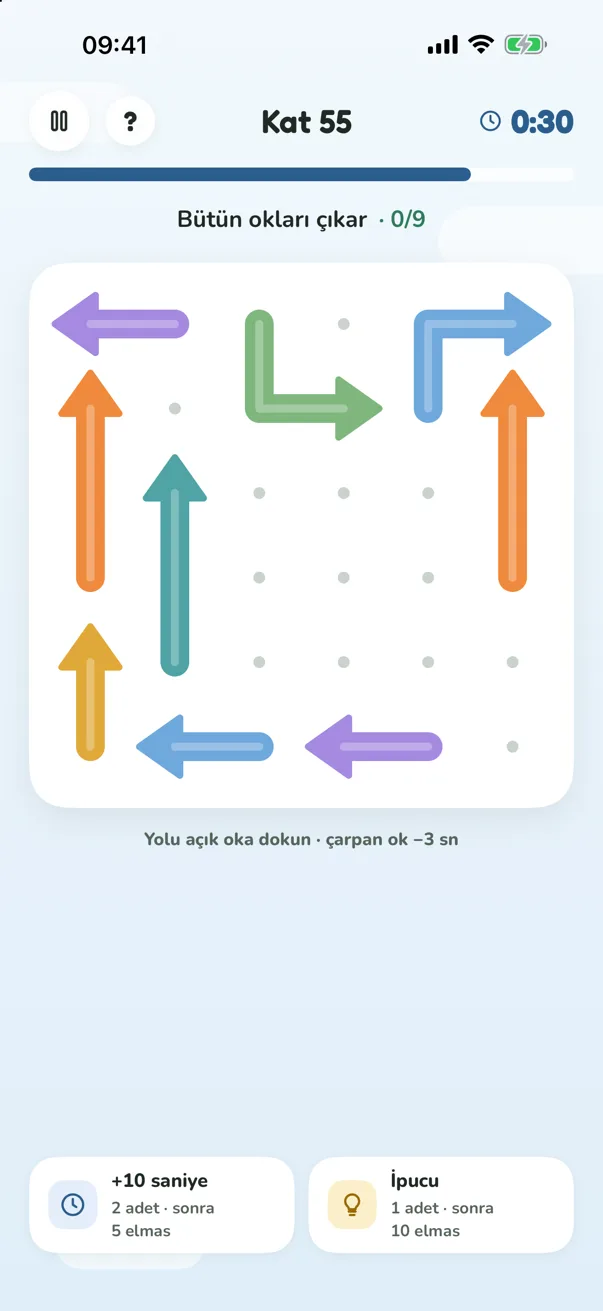
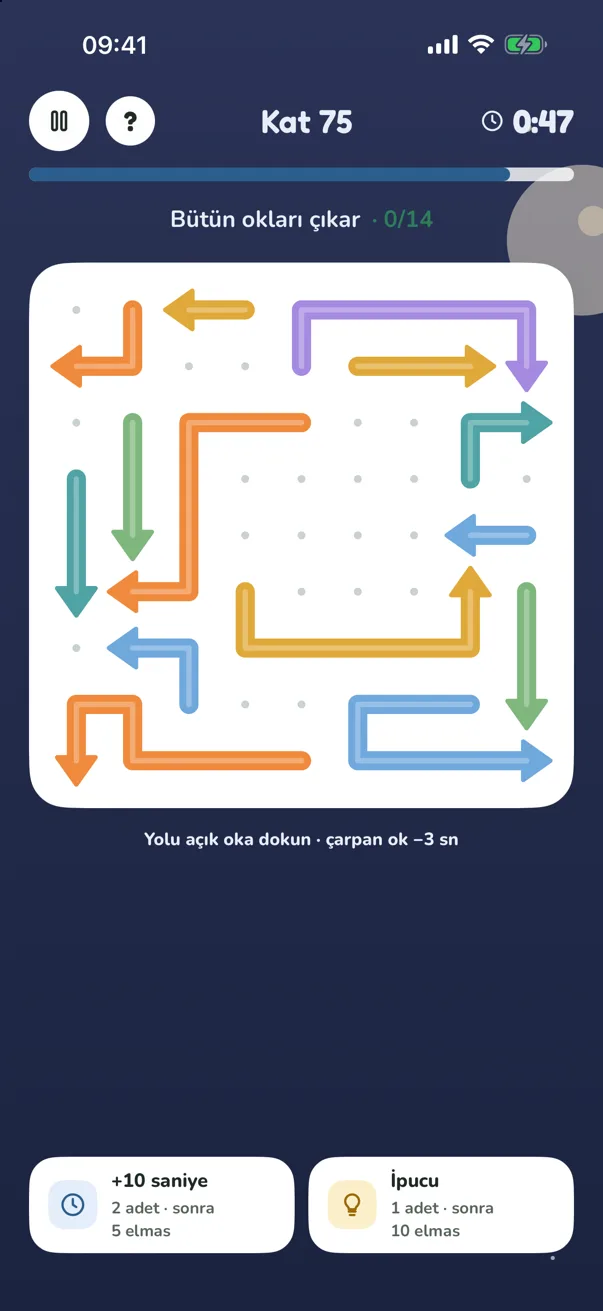
Oklar: yeni büyük tahtalar (kademe metni ve görsel)

diff --git a/index.html b/index.html
@@ -46,7 +46,7 @@
 </div></section>
 <section id="oyunlar" style="background:#fff"><div class="wrap">
   <div class="section-head"><span class="eyebrow">Oyunlar</span><h2>Dokuz bulmaca, tek kule.</h2><p>Her kat farklı bir oyunla gelir; her 10 katta bir kamp ve yeni bir oyun. İlk kez karşılaştığında süre başlamadan kısa bir animasyonla nasıl oynandığı gösterilir, oyun sırasında ? düğmesi aynı kartı açar. Her tahta üretilirken bilgisayar tarafından çözülerek doğrulanır: çözümsüz bulmaca yok.</p></div>
-  <div class="games"><article class="game" id="colorMatch"><div class="art"><svg viewBox="0 0 76 76" aria-hidden="true"><rect x="4" y="4" width="32" height="32" rx="9" fill="#7FB77E"/><circle cx="20" cy="20" r="6" fill="#fff"/><rect x="40" y="4" width="32" height="32" rx="9" fill="#7FB77E"/><circle cx="56" cy="20" r="6" fill="#fff"/><rect x="4" y="40" width="32" height="32" rx="9" fill="#6FA8DC"/><rect x="14" y="50" width="12" height="12" rx="3" fill="#fff"/><rect x="40" y="40" width="32" height="32" rx="9" fill="#F08A3C"/><path d="M56 47l8 14H48z" fill="#fff"/><path d="M31 20h14" stroke="#1F2A24" stroke-width="2.5" stroke-linecap="round" stroke-dasharray="1 5"/></svg></div><div class="body"><div class="game-head"><h3>Renk birleştirme</h3><span class="unlock">Kat 1&#x27;den</span></div><p class="goal">Aynı renkteki taşları buluştur, tahtayı temizle.</p><h4>Nasıl oynanır</h4><ol><li>Bir taşı aynı renkli komşusunun üstüne sürükle: ikisi birden kaybolur.</li><li>Boş kareye sürüklersen taş kayar; eşine yaklaştırmak için kullan.</li></ol><h4>Yükseldikçe</h4><ul><li>Kat 10&#x27;dan duvarlar ve kayma hakkı sayılı taşlar (0&#x27;da donar)</li><li>Kat 30&#x27;dan her taşın kayma hakkı var, 6 renge kadar</li><li>Kat 60&#x27;tan kilitli taşlar: yanında eşleşme olunca açılır</li></ul></div></article><article class="game" id="pathDraw"><div class="art"><svg viewBox="0 0 76 76" aria-hidden="true"><g fill="#C9D2CC"><circle cx="14" cy="14" r="4"/><circle cx="38" cy="14" r="4"/><circle cx="62" cy="38" r="4"/><circle cx="14" cy="38" r="4"/><circle cx="38" cy="62" r="4"/><circle cx="62" cy="62" r="4"/></g><path d="M14 62V38h24V14h24" stroke="#2B5E8E" stroke-width="7" fill="none" stroke-linecap="round" stroke-linejoin="round"/><circle cx="14" cy="62" r="8" fill="#2E7D5B"/><circle cx="14" cy="62" r="3" fill="#fff"/><circle cx="38" cy="38" r="6" fill="#E0A93A"/><circle cx="62" cy="14" r="10" fill="#DCEBD6"/><path d="M58 20V8h7l-1.5 3 1.5 3h-7" stroke="#2E7D5B" stroke-width="2" fill="none" stroke-linejoin="round"/></svg></div><div class="body"><div class="game-head"><h3>Yol çizme</h3><span class="unlock">Kat 1&#x27;den</span></div><p class="goal">Parmağını kaldırmadan tek çizgiyle bayrağa ulaş.</p><h4>Nasıl oynanır</h4><ol><li>Başlangıçtan düğümden düğüme çiz; geri çekersen son adım silinir.</li><li>Ara noktalardan geçip bayrakta bitir. Parmağını kaldırırsan yol sıfırlanır.</li></ol><h4>Yükseldikçe</h4><ul><li>Kat 20&#x27;den sis: yalnızca kalemin çevresi görünür</li><li>Kat 30&#x27;dan ara noktalar sırayla geçilir</li><li>Kat 60&#x27;tan bütün düğümlerden geçmen gerekir, duvarlar çoğalır</li></ul></div></article><article class="game" id="blockFit"><div class="art"><svg viewBox="0 0 76 76" aria-hidden="true"><g fill="#CFE4C4"><rect x="4" y="4" width="20" height="20" rx="5"/><rect x="28" y="4" width="20" height="20" rx="5"/><rect x="52" y="52" width="20" height="20" rx="5"/></g><g fill="#A58AE0"><rect x="52" y="4" width="20" height="20" rx="5"/><rect x="52" y="28" width="20" height="20" rx="5"/></g><g fill="#F08A3C"><rect x="4" y="28" width="20" height="20" rx="5"/><rect x="28" y="28" width="20" height="20" rx="5"/><rect x="4" y="52" width="20" height="20" rx="5"/></g><rect x="28" y="52" width="20" height="20" rx="5" fill="none" stroke="#C9D2CC" stroke-width="2.5" stroke-dasharray="4 3"/></svg></div><div class="body"><div class="game-head"><h3>Blok yerleştirme</h3><span class="unlock">Kat 1&#x27;den</span></div><p class="goal">Parçaları tahtadaki boşluklara tam oturt.</p><h4>Nasıl oynanır</h4><ol><li>Alttaki parçayı tahtaya sürükle; parçaya dokununca döner.</li><li>Tahtadaki parçaya dokunursan geri gelir; bütün parçalar sığınca kat biter.</li></ol><h4>Yükseldikçe</h4><ul><li>6×6 tahtadan 8×8&#x27;e, 3 parçadan 6 parçaya</li><li>Kat 30&#x27;dan aynalı parça: basılı tutup çevirmen gerekir</li><li>Parçalar büyür, boşluklar daralır</li></ul></div></article><article class="game" id="memory"><div class="art"><svg viewBox="0 0 76 76" aria-hidden="true"><rect x="4" y="8" width="30" height="40" rx="8" fill="#2B5E8E"/><circle cx="19" cy="28" r="6" fill="none" stroke="#fff" stroke-opacity=".6" stroke-width="2.5"/><rect x="40" y="8" width="30" height="40" rx="8" fill="#fff" stroke="#1F2A24" stroke-width="2.5"/><path d="M63 21C53 21 47 27 47 37c10 0 16-6 16-16z" fill="#7FB77E"/><rect x="22" y="34" width="30" height="40" rx="8" fill="#DCEBD6" stroke="#2E7D5B" stroke-width="2.5"/><path d="M45 47C35 47 29 53 29 63c10 0 16-6 16-16z" fill="#7FB77E"/></svg></div><div class="body"><div class="game-head"><h3>Hafıza</h3><span class="unlock">Kat 1&#x27;den</span></div><p class="goal">Kartları çevir, eşleri bul.</p><h4>Nasıl oynanır</h4><ol><li>İki kart çevir: aynı resimse açık kalır, değilse kısa süre sonra kapanır.</li><li>Kartların yerini aklında tut ve bütün çiftleri bul.</li></ol><h4>Yükseldikçe</h4><ul><li>12 karttan 24 karta</li><li>Kat 30&#x27;dan üçlüler: aynı resimden üç kartı bul</li><li>Yanlış kartlar daha çabuk kapanır</li></ul></div></article><article class="game" id="flow"><div class="art"><svg viewBox="0 0 76 76" aria-hidden="true"><path d="M12 12h26v26h26" stroke="#E0565B" stroke-width="8" fill="none" stroke-linecap="round" stroke-linejoin="round"/><path d="M12 38v26h52" stroke="#6FA8DC" stroke-width="8" fill="none" stroke-linecap="round" stroke-linejoin="round"/><circle cx="12" cy="12" r="9" fill="#E0565B"/><circle cx="64" cy="38" r="9" fill="#E0565B"/><circle cx="12" cy="38" r="9" fill="#6FA8DC"/><circle cx="64" cy="64" r="9" fill="#6FA8DC"/></svg></div><div class="body"><div class="game-head"><h3>Akış</h3><span class="unlock">Kat 11&#x27;den</span></div><p class="goal">Aynı renkteki uçları birleştir, tahtayı doldur.</p><h4>Nasıl oynanır</h4><ol><li>Renkli bir noktadan aynı renkteki eşine çizgi çek.</li><li>Çizgiler kesişmez ve bütün kareler dolmalı; yarım kalan çizgi parmak kalkınca silinir.</li></ol><h4>Yükseldikçe</h4><ul><li>5×5 tahtadan 7×7&#x27;ye</li><li>3 renkten 6 renge</li><li>Geçilemeyen engel kareler</li></ul></div></article><article class="game" id="pipes"><div class="art"><svg viewBox="0 0 76 76" aria-hidden="true"><rect x="2" y="2" width="72" height="72" rx="14" fill="#E3EEF9"/><path d="M8 38h22a8 8 0 0 0 8-8V8" stroke="#6FA8DC" stroke-width="9" fill="none" stroke-linecap="round"/><path d="M38 68V50a8 8 0 0 1 8-8h22" stroke="#C9D2CC" stroke-width="9" fill="none" stroke-linecap="round"/><circle cx="8" cy="38" r="7" fill="#2B5E8E"/><circle cx="68" cy="42" r="7" fill="#2E7D5B"/></svg></div><div class="body"><div class="game-head"><h3>Boru çevirme</h3><span class="unlock">Kat 21&#x27;den</span></div><p class="goal">Boruları döndür, suyu akıt.</p><h4>Nasıl oynanır</h4><ol><li>Bir boruya dokun: 90 derece döner.</li><li>Suyu kaynaktan bayrağa kesintisiz ulaştır; akan borular dolu görünür.</li></ol><h4>Yükseldikçe</h4><ul><li>Kat 40&#x27;tan bütün borular bağlanmalı</li><li>Daha çok kollu, daha karışık borular</li><li>Kristal zirvede 6×6 tahta</li></ul></div></article><article class="game" id="colorSort"><div class="art"><svg viewBox="0 0 76 76" aria-hidden="true"><g stroke="#8A958E" stroke-width="2.5" fill="none"><path d="M8 6v56a8 8 0 0 0 16 0V6"/><path d="M30 6v56a8 8 0 0 0 16 0V6"/><path d="M52 6v56a8 8 0 0 0 16 0V6"/></g><path d="M10 42h12v20a6 6 0 0 1-12 0z" fill="#F08A3C"/><rect x="10" y="26" width="12" height="16" fill="#A58AE0"/><path d="M32 30h12v32a6 6 0 0 1-12 0z" fill="#A58AE0"/><path d="M54 46h12v16a6 6 0 0 1-12 0z" fill="#F08A3C"/></svg></div><div class="body"><div class="game-head"><h3>Renk dizme</h3><span class="unlock">Kat 31&#x27;den</span></div><p class="goal">Tüplerdeki renkleri ayır, her tüpte tek renk kalsın.</p><h4>Nasıl oynanır</h4><ol><li>Bir tüpe, sonra başka bir tüpe dokun: üstteki renk oraya dökülür.</li><li>Yalnızca aynı rengin üstüne ya da boş tüpe dökülür; sıkışırsan Geri al.</li></ol><h4>Yükseldikçe</h4><ul><li>4 renkten 8 renge</li><li>Daha karışık başlangıçlar, daha uzun çözümler</li><li>Hep iki boş tüp: plan yapmak sende</li></ul></div></article><article class="game" id="lights"><div class="art"><svg viewBox="0 0 76 76" aria-hidden="true"><g fill="#F2B531"><rect x="2" y="2" width="22" height="22" rx="6"/><rect x="27" y="2" width="22" height="22" rx="6"/><rect x="52" y="27" width="22" height="22" rx="6"/><rect x="2" y="27" width="22" height="22" rx="6"/><rect x="27" y="52" width="22" height="22" rx="6"/></g><g fill="#F4F6F1" stroke="#E3E9E0" stroke-width="2"><rect x="52" y="2" width="22" height="22" rx="6"/><rect x="27" y="27" width="22" height="22" rx="6"/><rect x="2" y="52" width="22" height="22" rx="6"/><rect x="52" y="52" width="22" height="22" rx="6"/></g><g fill="#5A3E00"><circle cx="13" cy="13" r="4"/><circle cx="38" cy="13" r="4"/><circle cx="63" cy="38" r="4"/><circle cx="13" cy="38" r="4"/><circle cx="38" cy="63" r="4"/></g></svg></div><div class="body"><div class="game-head"><h3>Işık</h3><span class="unlock">Kat 41&#x27;den</span></div><p class="goal">Bütün kareleri yak.</p><h4>Nasıl oynanır</h4><ol><li>Bir kareye dokun: o kare ve üst, alt, sağ, sol komşuları (+ şekli) tersine döner. Sönük olan yanar, yanan söner.</li><li>Parmağını basılı tutunca dönecek kareler çerçevelenir; çaprazlar etkilenmez.</li></ol><h4>Yükseldikçe</h4><ul><li>3×3 tahtadan 5×5&#x27;e</li><li>Çözüm için gereken dokunuş 3&#x27;ten 10&#x27;a</li><li>Sıra önemli: önce düşün, sonra dokun</li></ul></div></article><article class="game" id="arrows"><div class="art"><svg viewBox="0 0 76 76" aria-hidden="true"><g fill="none" stroke-width="7" stroke-linecap="round" stroke-linejoin="round"><path d="M14 60V36h22" stroke="#F08A3C"/><path d="M50 62V22" stroke="#6FA8DC"/><path d="M20 16h30" stroke="#A58AE0"/></g><path d="M36 28l10 8-10 8z" fill="#F08A3C"/><path d="M42 24l8-12 8 12z" fill="#6FA8DC"/><path d="M50 8l12 8-12 8z" fill="#A58AE0"/></svg></div><div class="body"><div class="game-head"><h3>Oklar</h3><span class="unlock">Kat 51&#x27;den</span></div><p class="goal">Okları sırasıyla tahtadan çıkar.</p><h4>Nasıl oynanır</h4><ol><li>Bir oka dokun: ucunun gösterdiği yöne kayar, gövdesi ucunu izler ve yolu açıksa tahtadan çıkar.</li><li>Önünde başka ok varsa çarpıp geri döner ve 3 saniye götürür; önce öndekileri çıkar.</li></ol><h4>Yükseldikçe</h4><ul><li>6×6 tahtadan 9×9&#x27;a, 7 oktan 19 oka</li><li>Düz oklardan kıvrımlı, yılan gibi oklara</li><li>Daha uzun &quot;önce bu çıkmalı&quot; zincirleri</li></ul></div></article></div>
+  <div class="games"><article class="game" id="colorMatch"><div class="art"><svg viewBox="0 0 76 76" aria-hidden="true"><rect x="4" y="4" width="32" height="32" rx="9" fill="#7FB77E"/><circle cx="20" cy="20" r="6" fill="#fff"/><rect x="40" y="4" width="32" height="32" rx="9" fill="#7FB77E"/><circle cx="56" cy="20" r="6" fill="#fff"/><rect x="4" y="40" width="32" height="32" rx="9" fill="#6FA8DC"/><rect x="14" y="50" width="12" height="12" rx="3" fill="#fff"/><rect x="40" y="40" width="32" height="32" rx="9" fill="#F08A3C"/><path d="M56 47l8 14H48z" fill="#fff"/><path d="M31 20h14" stroke="#1F2A24" stroke-width="2.5" stroke-linecap="round" stroke-dasharray="1 5"/></svg></div><div class="body"><div class="game-head"><h3>Renk birleştirme</h3><span class="unlock">Kat 1&#x27;den</span></div><p class="goal">Aynı renkteki taşları buluştur, tahtayı temizle.</p><h4>Nasıl oynanır</h4><ol><li>Bir taşı aynı renkli komşusunun üstüne sürükle: ikisi birden kaybolur.</li><li>Boş kareye sürüklersen taş kayar; eşine yaklaştırmak için kullan.</li></ol><h4>Yükseldikçe</h4><ul><li>Kat 10&#x27;dan duvarlar ve kayma hakkı sayılı taşlar (0&#x27;da donar)</li><li>Kat 30&#x27;dan her taşın kayma hakkı var, 6 renge kadar</li><li>Kat 60&#x27;tan kilitli taşlar: yanında eşleşme olunca açılır</li></ul></div></article><article class="game" id="pathDraw"><div class="art"><svg viewBox="0 0 76 76" aria-hidden="true"><g fill="#C9D2CC"><circle cx="14" cy="14" r="4"/><circle cx="38" cy="14" r="4"/><circle cx="62" cy="38" r="4"/><circle cx="14" cy="38" r="4"/><circle cx="38" cy="62" r="4"/><circle cx="62" cy="62" r="4"/></g><path d="M14 62V38h24V14h24" stroke="#2B5E8E" stroke-width="7" fill="none" stroke-linecap="round" stroke-linejoin="round"/><circle cx="14" cy="62" r="8" fill="#2E7D5B"/><circle cx="14" cy="62" r="3" fill="#fff"/><circle cx="38" cy="38" r="6" fill="#E0A93A"/><circle cx="62" cy="14" r="10" fill="#DCEBD6"/><path d="M58 20V8h7l-1.5 3 1.5 3h-7" stroke="#2E7D5B" stroke-width="2" fill="none" stroke-linejoin="round"/></svg></div><div class="body"><div class="game-head"><h3>Yol çizme</h3><span class="unlock">Kat 1&#x27;den</span></div><p class="goal">Parmağını kaldırmadan tek çizgiyle bayrağa ulaş.</p><h4>Nasıl oynanır</h4><ol><li>Başlangıçtan düğümden düğüme çiz; geri çekersen son adım silinir.</li><li>Ara noktalardan geçip bayrakta bitir. Parmağını kaldırırsan yol sıfırlanır.</li></ol><h4>Yükseldikçe</h4><ul><li>Kat 20&#x27;den sis: yalnızca kalemin çevresi görünür</li><li>Kat 30&#x27;dan ara noktalar sırayla geçilir</li><li>Kat 60&#x27;tan bütün düğümlerden geçmen gerekir, duvarlar çoğalır</li></ul></div></article><article class="game" id="blockFit"><div class="art"><svg viewBox="0 0 76 76" aria-hidden="true"><g fill="#CFE4C4"><rect x="4" y="4" width="20" height="20" rx="5"/><rect x="28" y="4" width="20" height="20" rx="5"/><rect x="52" y="52" width="20" height="20" rx="5"/></g><g fill="#A58AE0"><rect x="52" y="4" width="20" height="20" rx="5"/><rect x="52" y="28" width="20" height="20" rx="5"/></g><g fill="#F08A3C"><rect x="4" y="28" width="20" height="20" rx="5"/><rect x="28" y="28" width="20" height="20" rx="5"/><rect x="4" y="52" width="20" height="20" rx="5"/></g><rect x="28" y="52" width="20" height="20" rx="5" fill="none" stroke="#C9D2CC" stroke-width="2.5" stroke-dasharray="4 3"/></svg></div><div class="body"><div class="game-head"><h3>Blok yerleştirme</h3><span class="unlock">Kat 1&#x27;den</span></div><p class="goal">Parçaları tahtadaki boşluklara tam oturt.</p><h4>Nasıl oynanır</h4><ol><li>Alttaki parçayı tahtaya sürükle; parçaya dokununca döner.</li><li>Tahtadaki parçaya dokunursan geri gelir; bütün parçalar sığınca kat biter.</li></ol><h4>Yükseldikçe</h4><ul><li>6×6 tahtadan 8×8&#x27;e, 3 parçadan 6 parçaya</li><li>Kat 30&#x27;dan aynalı parça: basılı tutup çevirmen gerekir</li><li>Parçalar büyür, boşluklar daralır</li></ul></div></article><article class="game" id="memory"><div class="art"><svg viewBox="0 0 76 76" aria-hidden="true"><rect x="4" y="8" width="30" height="40" rx="8" fill="#2B5E8E"/><circle cx="19" cy="28" r="6" fill="none" stroke="#fff" stroke-opacity=".6" stroke-width="2.5"/><rect x="40" y="8" width="30" height="40" rx="8" fill="#fff" stroke="#1F2A24" stroke-width="2.5"/><path d="M63 21C53 21 47 27 47 37c10 0 16-6 16-16z" fill="#7FB77E"/><rect x="22" y="34" width="30" height="40" rx="8" fill="#DCEBD6" stroke="#2E7D5B" stroke-width="2.5"/><path d="M45 47C35 47 29 53 29 63c10 0 16-6 16-16z" fill="#7FB77E"/></svg></div><div class="body"><div class="game-head"><h3>Hafıza</h3><span class="unlock">Kat 1&#x27;den</span></div><p class="goal">Kartları çevir, eşleri bul.</p><h4>Nasıl oynanır</h4><ol><li>İki kart çevir: aynı resimse açık kalır, değilse kısa süre sonra kapanır.</li><li>Kartların yerini aklında tut ve bütün çiftleri bul.</li></ol><h4>Yükseldikçe</h4><ul><li>12 karttan 24 karta</li><li>Kat 30&#x27;dan üçlüler: aynı resimden üç kartı bul</li><li>Yanlış kartlar daha çabuk kapanır</li></ul></div></article><article class="game" id="flow"><div class="art"><svg viewBox="0 0 76 76" aria-hidden="true"><path d="M12 12h26v26h26" stroke="#E0565B" stroke-width="8" fill="none" stroke-linecap="round" stroke-linejoin="round"/><path d="M12 38v26h52" stroke="#6FA8DC" stroke-width="8" fill="none" stroke-linecap="round" stroke-linejoin="round"/><circle cx="12" cy="12" r="9" fill="#E0565B"/><circle cx="64" cy="38" r="9" fill="#E0565B"/><circle cx="12" cy="38" r="9" fill="#6FA8DC"/><circle cx="64" cy="64" r="9" fill="#6FA8DC"/></svg></div><div class="body"><div class="game-head"><h3>Akış</h3><span class="unlock">Kat 11&#x27;den</span></div><p class="goal">Aynı renkteki uçları birleştir, tahtayı doldur.</p><h4>Nasıl oynanır</h4><ol><li>Renkli bir noktadan aynı renkteki eşine çizgi çek.</li><li>Çizgiler kesişmez ve bütün kareler dolmalı; yarım kalan çizgi parmak kalkınca silinir.</li></ol><h4>Yükseldikçe</h4><ul><li>5×5 tahtadan 7×7&#x27;ye</li><li>3 renkten 6 renge</li><li>Geçilemeyen engel kareler</li></ul></div></article><article class="game" id="pipes"><div class="art"><svg viewBox="0 0 76 76" aria-hidden="true"><rect x="2" y="2" width="72" height="72" rx="14" fill="#E3EEF9"/><path d="M8 38h22a8 8 0 0 0 8-8V8" stroke="#6FA8DC" stroke-width="9" fill="none" stroke-linecap="round"/><path d="M38 68V50a8 8 0 0 1 8-8h22" stroke="#C9D2CC" stroke-width="9" fill="none" stroke-linecap="round"/><circle cx="8" cy="38" r="7" fill="#2B5E8E"/><circle cx="68" cy="42" r="7" fill="#2E7D5B"/></svg></div><div class="body"><div class="game-head"><h3>Boru çevirme</h3><span class="unlock">Kat 21&#x27;den</span></div><p class="goal">Boruları döndür, suyu akıt.</p><h4>Nasıl oynanır</h4><ol><li>Bir boruya dokun: 90 derece döner.</li><li>Suyu kaynaktan bayrağa kesintisiz ulaştır; akan borular dolu görünür.</li></ol><h4>Yükseldikçe</h4><ul><li>Kat 40&#x27;tan bütün borular bağlanmalı</li><li>Daha çok kollu, daha karışık borular</li><li>Kristal zirvede 6×6 tahta</li></ul></div></article><article class="game" id="colorSort"><div class="art"><svg viewBox="0 0 76 76" aria-hidden="true"><g stroke="#8A958E" stroke-width="2.5" fill="none"><path d="M8 6v56a8 8 0 0 0 16 0V6"/><path d="M30 6v56a8 8 0 0 0 16 0V6"/><path d="M52 6v56a8 8 0 0 0 16 0V6"/></g><path d="M10 42h12v20a6 6 0 0 1-12 0z" fill="#F08A3C"/><rect x="10" y="26" width="12" height="16" fill="#A58AE0"/><path d="M32 30h12v32a6 6 0 0 1-12 0z" fill="#A58AE0"/><path d="M54 46h12v16a6 6 0 0 1-12 0z" fill="#F08A3C"/></svg></div><div class="body"><div class="game-head"><h3>Renk dizme</h3><span class="unlock">Kat 31&#x27;den</span></div><p class="goal">Tüplerdeki renkleri ayır, her tüpte tek renk kalsın.</p><h4>Nasıl oynanır</h4><ol><li>Bir tüpe, sonra başka bir tüpe dokun: üstteki renk oraya dökülür.</li><li>Yalnızca aynı rengin üstüne ya da boş tüpe dökülür; sıkışırsan Geri al.</li></ol><h4>Yükseldikçe</h4><ul><li>4 renkten 8 renge</li><li>Daha karışık başlangıçlar, daha uzun çözümler</li><li>Hep iki boş tüp: plan yapmak sende</li></ul></div></article><article class="game" id="lights"><div class="art"><svg viewBox="0 0 76 76" aria-hidden="true"><g fill="#F2B531"><rect x="2" y="2" width="22" height="22" rx="6"/><rect x="27" y="2" width="22" height="22" rx="6"/><rect x="52" y="27" width="22" height="22" rx="6"/><rect x="2" y="27" width="22" height="22" rx="6"/><rect x="27" y="52" width="22" height="22" rx="6"/></g><g fill="#F4F6F1" stroke="#E3E9E0" stroke-width="2"><rect x="52" y="2" width="22" height="22" rx="6"/><rect x="27" y="27" width="22" height="22" rx="6"/><rect x="2" y="52" width="22" height="22" rx="6"/><rect x="52" y="52" width="22" height="22" rx="6"/></g><g fill="#5A3E00"><circle cx="13" cy="13" r="4"/><circle cx="38" cy="13" r="4"/><circle cx="63" cy="38" r="4"/><circle cx="13" cy="38" r="4"/><circle cx="38" cy="63" r="4"/></g></svg></div><div class="body"><div class="game-head"><h3>Işık</h3><span class="unlock">Kat 41&#x27;den</span></div><p class="goal">Bütün kareleri yak.</p><h4>Nasıl oynanır</h4><ol><li>Bir kareye dokun: o kare ve üst, alt, sağ, sol komşuları (+ şekli) tersine döner. Sönük olan yanar, yanan söner.</li><li>Parmağını basılı tutunca dönecek kareler çerçevelenir; çaprazlar etkilenmez.</li></ol><h4>Yükseldikçe</h4><ul><li>3×3 tahtadan 5×5&#x27;e</li><li>Çözüm için gereken dokunuş 3&#x27;ten 10&#x27;a</li><li>Sıra önemli: önce düşün, sonra dokun</li></ul></div></article><article class="game" id="arrows"><div class="art"><svg viewBox="0 0 76 76" aria-hidden="true"><g fill="none" stroke-width="7" stroke-linecap="round" stroke-linejoin="round"><path d="M14 60V36h22" stroke="#F08A3C"/><path d="M50 62V22" stroke="#6FA8DC"/><path d="M20 16h30" stroke="#A58AE0"/></g><path d="M36 28l10 8-10 8z" fill="#F08A3C"/><path d="M42 24l8-12 8 12z" fill="#6FA8DC"/><path d="M50 8l12 8-12 8z" fill="#A58AE0"/></svg></div><div class="body"><div class="game-head"><h3>Oklar</h3><span class="unlock">Kat 51&#x27;den</span></div><p class="goal">Okları sırasıyla tahtadan çıkar.</p><h4>Nasıl oynanır</h4><ol><li>Bir oka dokun: ucunun gösterdiği yöne kayar, gövdesi ucunu izler ve yolu açıksa tahtadan çıkar.</li><li>Önünde başka ok varsa çarpıp geri döner ve 3 saniye götürür; önce öndekileri çıkar.</li></ol><h4>Yükseldikçe</h4><ul><li>7×7 tahtadan 11×11&#x27;e, karelerin %85&#x27;ine kadar dolu</li><li>Kısa oklarla 12 kareye varan kıvrımlı yılan oklar</li><li>Daha uzun &quot;önce bu çıkmalı&quot; zincirleri</li></ul></div></article></div>
   <div class="shots"><figure><div class="phone sm"><img src="assets/shots/play-path.webp" width="603" height="1311" loading="lazy" alt="Yol çizme"></div><figcaption>Yol çizme</figcaption></figure><figure><div class="phone sm"><img src="assets/shots/play-color.webp" width="603" height="1311" loading="lazy" alt="Renk birleştirme"></div><figcaption>Renk birleştirme</figcaption></figure><figure><div class="phone sm"><img src="assets/shots/play-blocks.webp" width="603" height="1311" loading="lazy" alt="Blok yerleştirme"></div><figcaption>Blok yerleştirme</figcaption></figure><figure><div class="phone sm"><img src="assets/shots/play-arrows.webp" width="603" height="1311" loading="lazy" alt="Oklar"></div><figcaption>Oklar</figcaption></figure></div>
 </div></section>
 <section id="dunyalar"><div class="wrap">

diff --git a/en/index.html b/en/index.html
@@ -46,7 +46,7 @@
 </div></section>
 <section id="games" style="background:#fff"><div class="wrap">
   <div class="section-head"><span class="eyebrow">Games</span><h2>Nine puzzles, one tower.</h2><p>Each floor brings a different game; every 10 floors there is a camp and a new game. The first time you meet one, a short animation shows how it works before the clock starts, and the ? button brings it back during play. Every board is solved by the computer before you see it: no unsolvable puzzles.</p></div>
-  <div class="games"><article class="game" id="colorMatch"><div class="art"><svg viewBox="0 0 76 76" aria-hidden="true"><rect x="4" y="4" width="32" height="32" rx="9" fill="#7FB77E"/><circle cx="20" cy="20" r="6" fill="#fff"/><rect x="40" y="4" width="32" height="32" rx="9" fill="#7FB77E"/><circle cx="56" cy="20" r="6" fill="#fff"/><rect x="4" y="40" width="32" height="32" rx="9" fill="#6FA8DC"/><rect x="14" y="50" width="12" height="12" rx="3" fill="#fff"/><rect x="40" y="40" width="32" height="32" rx="9" fill="#F08A3C"/><path d="M56 47l8 14H48z" fill="#fff"/><path d="M31 20h14" stroke="#1F2A24" stroke-width="2.5" stroke-linecap="round" stroke-dasharray="1 5"/></svg></div><div class="body"><div class="game-head"><h3>Colour match</h3><span class="unlock">From floor 1</span></div><p class="goal">Bring matching tiles together and clear the board.</p><h4>How to play</h4><ol><li>Drag a tile onto a neighbour of the same colour: both disappear.</li><li>Drag into an empty square to slide a tile closer to its pair.</li></ol><h4>Higher up</h4><ul><li>From floor 10: walls and tiles with a limited number of slides (frozen at 0)</li><li>From floor 30: every tile has a slide limit, up to 6 colours</li><li>From floor 60: locked tiles that open when a match happens next to them</li></ul></div></article><article class="game" id="pathDraw"><div class="art"><svg viewBox="0 0 76 76" aria-hidden="true"><g fill="#C9D2CC"><circle cx="14" cy="14" r="4"/><circle cx="38" cy="14" r="4"/><circle cx="62" cy="38" r="4"/><circle cx="14" cy="38" r="4"/><circle cx="38" cy="62" r="4"/><circle cx="62" cy="62" r="4"/></g><path d="M14 62V38h24V14h24" stroke="#2B5E8E" stroke-width="7" fill="none" stroke-linecap="round" stroke-linejoin="round"/><circle cx="14" cy="62" r="8" fill="#2E7D5B"/><circle cx="14" cy="62" r="3" fill="#fff"/><circle cx="38" cy="38" r="6" fill="#E0A93A"/><circle cx="62" cy="14" r="10" fill="#DCEBD6"/><path d="M58 20V8h7l-1.5 3 1.5 3h-7" stroke="#2E7D5B" stroke-width="2" fill="none" stroke-linejoin="round"/></svg></div><div class="body"><div class="game-head"><h3>Path draw</h3><span class="unlock">From floor 1</span></div><p class="goal">Reach the flag with one line, without lifting your finger.</p><h4>How to play</h4><ol><li>Draw from node to node; pull back to undo the last step.</li><li>Pass the checkpoints and end on the flag. Lift your finger and the line resets.</li></ol><h4>Higher up</h4><ul><li>From floor 20: fog, you only see around your pen</li><li>From floor 30: checkpoints in order</li><li>From floor 60: visit every node, more walls</li></ul></div></article><article class="game" id="blockFit"><div class="art"><svg viewBox="0 0 76 76" aria-hidden="true"><g fill="#CFE4C4"><rect x="4" y="4" width="20" height="20" rx="5"/><rect x="28" y="4" width="20" height="20" rx="5"/><rect x="52" y="52" width="20" height="20" rx="5"/></g><g fill="#A58AE0"><rect x="52" y="4" width="20" height="20" rx="5"/><rect x="52" y="28" width="20" height="20" rx="5"/></g><g fill="#F08A3C"><rect x="4" y="28" width="20" height="20" rx="5"/><rect x="28" y="28" width="20" height="20" rx="5"/><rect x="4" y="52" width="20" height="20" rx="5"/></g><rect x="28" y="52" width="20" height="20" rx="5" fill="none" stroke="#C9D2CC" stroke-width="2.5" stroke-dasharray="4 3"/></svg></div><div class="body"><div class="game-head"><h3>Block fit</h3><span class="unlock">From floor 1</span></div><p class="goal">Fit every piece into the gaps on the board.</p><h4>How to play</h4><ol><li>Drag a piece from the tray onto the board; tap a piece to turn it.</li><li>Tap a placed piece to take it back; the floor is done when everything fits.</li></ol><h4>Higher up</h4><ul><li>From a 6×6 board to 8×8, from 3 pieces to 6</li><li>From floor 30: mirrored pieces you flip with a long press</li><li>Bigger pieces, tighter gaps</li></ul></div></article><article class="game" id="memory"><div class="art"><svg viewBox="0 0 76 76" aria-hidden="true"><rect x="4" y="8" width="30" height="40" rx="8" fill="#2B5E8E"/><circle cx="19" cy="28" r="6" fill="none" stroke="#fff" stroke-opacity=".6" stroke-width="2.5"/><rect x="40" y="8" width="30" height="40" rx="8" fill="#fff" stroke="#1F2A24" stroke-width="2.5"/><path d="M63 21C53 21 47 27 47 37c10 0 16-6 16-16z" fill="#7FB77E"/><rect x="22" y="34" width="30" height="40" rx="8" fill="#DCEBD6" stroke="#2E7D5B" stroke-width="2.5"/><path d="M45 47C35 47 29 53 29 63c10 0 16-6 16-16z" fill="#7FB77E"/></svg></div><div class="body"><div class="game-head"><h3>Memory</h3><span class="unlock">From floor 1</span></div><p class="goal">Flip the cards and find the matches.</p><h4>How to play</h4><ol><li>Turn two cards: a match stays open, otherwise they close again shortly.</li><li>Remember where each card is and find every pair.</li></ol><h4>Higher up</h4><ul><li>From 12 cards to 24</li><li>From floor 30: triples, find three of the same picture</li><li>Wrong cards close faster</li></ul></div></article><article class="game" id="flow"><div class="art"><svg viewBox="0 0 76 76" aria-hidden="true"><path d="M12 12h26v26h26" stroke="#E0565B" stroke-width="8" fill="none" stroke-linecap="round" stroke-linejoin="round"/><path d="M12 38v26h52" stroke="#6FA8DC" stroke-width="8" fill="none" stroke-linecap="round" stroke-linejoin="round"/><circle cx="12" cy="12" r="9" fill="#E0565B"/><circle cx="64" cy="38" r="9" fill="#E0565B"/><circle cx="12" cy="38" r="9" fill="#6FA8DC"/><circle cx="64" cy="64" r="9" fill="#6FA8DC"/></svg></div><div class="body"><div class="game-head"><h3>Flow</h3><span class="unlock">From floor 11</span></div><p class="goal">Connect matching ends and fill the board.</p><h4>How to play</h4><ol><li>Draw a line from a coloured dot to its matching dot.</li><li>Lines can&#x27;t cross and every square must be filled; an unfinished line vanishes when you lift your finger.</li></ol><h4>Higher up</h4><ul><li>From a 5×5 board to 7×7</li><li>From 3 colours to 6</li><li>Blocked squares you have to route around</li></ul></div></article><article class="game" id="pipes"><div class="art"><svg viewBox="0 0 76 76" aria-hidden="true"><rect x="2" y="2" width="72" height="72" rx="14" fill="#E3EEF9"/><path d="M8 38h22a8 8 0 0 0 8-8V8" stroke="#6FA8DC" stroke-width="9" fill="none" stroke-linecap="round"/><path d="M38 68V50a8 8 0 0 1 8-8h22" stroke="#C9D2CC" stroke-width="9" fill="none" stroke-linecap="round"/><circle cx="8" cy="38" r="7" fill="#2B5E8E"/><circle cx="68" cy="42" r="7" fill="#2E7D5B"/></svg></div><div class="body"><div class="game-head"><h3>Pipes</h3><span class="unlock">From floor 21</span></div><p class="goal">Turn the pipes and get the water flowing.</p><h4>How to play</h4><ol><li>Tap a pipe to turn it 90 degrees.</li><li>Lead the water from the source to the flag without a gap; flowing pipes fill up.</li></ol><h4>Higher up</h4><ul><li>From floor 40: every pipe must be connected</li><li>More branches, more tangled pipes</li><li>A 6×6 board at the crystal summit</li></ul></div></article><article class="game" id="colorSort"><div class="art"><svg viewBox="0 0 76 76" aria-hidden="true"><g stroke="#8A958E" stroke-width="2.5" fill="none"><path d="M8 6v56a8 8 0 0 0 16 0V6"/><path d="M30 6v56a8 8 0 0 0 16 0V6"/><path d="M52 6v56a8 8 0 0 0 16 0V6"/></g><path d="M10 42h12v20a6 6 0 0 1-12 0z" fill="#F08A3C"/><rect x="10" y="26" width="12" height="16" fill="#A58AE0"/><path d="M32 30h12v32a6 6 0 0 1-12 0z" fill="#A58AE0"/><path d="M54 46h12v16a6 6 0 0 1-12 0z" fill="#F08A3C"/></svg></div><div class="body"><div class="game-head"><h3>Colour sort</h3><span class="unlock">From floor 31</span></div><p class="goal">Sort the colours until every tube holds one.</p><h4>How to play</h4><ol><li>Tap a tube, then another: the top colour pours over.</li><li>It only goes onto the same colour or into an empty tube; stuck? Undo.</li></ol><h4>Higher up</h4><ul><li>From 4 colours to 8</li><li>More mixed starts, longer solutions</li><li>Always two empty tubes: the planning is yours</li></ul></div></article><article class="game" id="lights"><div class="art"><svg viewBox="0 0 76 76" aria-hidden="true"><g fill="#F2B531"><rect x="2" y="2" width="22" height="22" rx="6"/><rect x="27" y="2" width="22" height="22" rx="6"/><rect x="52" y="27" width="22" height="22" rx="6"/><rect x="2" y="27" width="22" height="22" rx="6"/><rect x="27" y="52" width="22" height="22" rx="6"/></g><g fill="#F4F6F1" stroke="#E3E9E0" stroke-width="2"><rect x="52" y="2" width="22" height="22" rx="6"/><rect x="27" y="27" width="22" height="22" rx="6"/><rect x="2" y="52" width="22" height="22" rx="6"/><rect x="52" y="52" width="22" height="22" rx="6"/></g><g fill="#5A3E00"><circle cx="13" cy="13" r="4"/><circle cx="38" cy="13" r="4"/><circle cx="63" cy="38" r="4"/><circle cx="13" cy="38" r="4"/><circle cx="38" cy="63" r="4"/></g></svg></div><div class="body"><div class="game-head"><h3>Lights</h3><span class="unlock">From floor 41</span></div><p class="goal">Light up every square.</p><h4>How to play</h4><ol><li>Tap a square: it and its up, down, left and right neighbours (a + shape) flip. Dark ones light up, lit ones go dark.</li><li>Hold your finger down to see which squares will flip; diagonals are not affected.</li></ol><h4>Higher up</h4><ul><li>From a 3×3 board to 5×5</li><li>From 3 to 10 taps to solve</li><li>Order matters: think first, then tap</li></ul></div></article><article class="game" id="arrows"><div class="art"><svg viewBox="0 0 76 76" aria-hidden="true"><g fill="none" stroke-width="7" stroke-linecap="round" stroke-linejoin="round"><path d="M14 60V36h22" stroke="#F08A3C"/><path d="M50 62V22" stroke="#6FA8DC"/><path d="M20 16h30" stroke="#A58AE0"/></g><path d="M36 28l10 8-10 8z" fill="#F08A3C"/><path d="M42 24l8-12 8 12z" fill="#6FA8DC"/><path d="M50 8l12 8-12 8z" fill="#A58AE0"/></svg></div><div class="body"><div class="game-head"><h3>Arrows</h3><span class="unlock">From floor 51</span></div><p class="goal">Clear the arrows in the right order.</p><h4>How to play</h4><ol><li>Tap an arrow: it slides the way its head points, its body follows, and it leaves the board if the way is clear.</li><li>If another arrow is in the way, it bumps back and costs 3 seconds; clear the ones in front first.</li></ol><h4>Higher up</h4><ul><li>From a 6×6 board to 9×9, from 7 arrows to 19</li><li>From straight arrows to bent, snake-like ones</li><li>Longer &quot;this one first&quot; chains</li></ul></div></article></div>
+  <div class="games"><article class="game" id="colorMatch"><div class="art"><svg viewBox="0 0 76 76" aria-hidden="true"><rect x="4" y="4" width="32" height="32" rx="9" fill="#7FB77E"/><circle cx="20" cy="20" r="6" fill="#fff"/><rect x="40" y="4" width="32" height="32" rx="9" fill="#7FB77E"/><circle cx="56" cy="20" r="6" fill="#fff"/><rect x="4" y="40" width="32" height="32" rx="9" fill="#6FA8DC"/><rect x="14" y="50" width="12" height="12" rx="3" fill="#fff"/><rect x="40" y="40" width="32" height="32" rx="9" fill="#F08A3C"/><path d="M56 47l8 14H48z" fill="#fff"/><path d="M31 20h14" stroke="#1F2A24" stroke-width="2.5" stroke-linecap="round" stroke-dasharray="1 5"/></svg></div><div class="body"><div class="game-head"><h3>Colour match</h3><span class="unlock">From floor 1</span></div><p class="goal">Bring matching tiles together and clear the board.</p><h4>How to play</h4><ol><li>Drag a tile onto a neighbour of the same colour: both disappear.</li><li>Drag into an empty square to slide a tile closer to its pair.</li></ol><h4>Higher up</h4><ul><li>From floor 10: walls and tiles with a limited number of slides (frozen at 0)</li><li>From floor 30: every tile has a slide limit, up to 6 colours</li><li>From floor 60: locked tiles that open when a match happens next to them</li></ul></div></article><article class="game" id="pathDraw"><div class="art"><svg viewBox="0 0 76 76" aria-hidden="true"><g fill="#C9D2CC"><circle cx="14" cy="14" r="4"/><circle cx="38" cy="14" r="4"/><circle cx="62" cy="38" r="4"/><circle cx="14" cy="38" r="4"/><circle cx="38" cy="62" r="4"/><circle cx="62" cy="62" r="4"/></g><path d="M14 62V38h24V14h24" stroke="#2B5E8E" stroke-width="7" fill="none" stroke-linecap="round" stroke-linejoin="round"/><circle cx="14" cy="62" r="8" fill="#2E7D5B"/><circle cx="14" cy="62" r="3" fill="#fff"/><circle cx="38" cy="38" r="6" fill="#E0A93A"/><circle cx="62" cy="14" r="10" fill="#DCEBD6"/><path d="M58 20V8h7l-1.5 3 1.5 3h-7" stroke="#2E7D5B" stroke-width="2" fill="none" stroke-linejoin="round"/></svg></div><div class="body"><div class="game-head"><h3>Path draw</h3><span class="unlock">From floor 1</span></div><p class="goal">Reach the flag with one line, without lifting your finger.</p><h4>How to play</h4><ol><li>Draw from node to node; pull back to undo the last step.</li><li>Pass the checkpoints and end on the flag. Lift your finger and the line resets.</li></ol><h4>Higher up</h4><ul><li>From floor 20: fog, you only see around your pen</li><li>From floor 30: checkpoints in order</li><li>From floor 60: visit every node, more walls</li></ul></div></article><article class="game" id="blockFit"><div class="art"><svg viewBox="0 0 76 76" aria-hidden="true"><g fill="#CFE4C4"><rect x="4" y="4" width="20" height="20" rx="5"/><rect x="28" y="4" width="20" height="20" rx="5"/><rect x="52" y="52" width="20" height="20" rx="5"/></g><g fill="#A58AE0"><rect x="52" y="4" width="20" height="20" rx="5"/><rect x="52" y="28" width="20" height="20" rx="5"/></g><g fill="#F08A3C"><rect x="4" y="28" width="20" height="20" rx="5"/><rect x="28" y="28" width="20" height="20" rx="5"/><rect x="4" y="52" width="20" height="20" rx="5"/></g><rect x="28" y="52" width="20" height="20" rx="5" fill="none" stroke="#C9D2CC" stroke-width="2.5" stroke-dasharray="4 3"/></svg></div><div class="body"><div class="game-head"><h3>Block fit</h3><span class="unlock">From floor 1</span></div><p class="goal">Fit every piece into the gaps on the board.</p><h4>How to play</h4><ol><li>Drag a piece from the tray onto the board; tap a piece to turn it.</li><li>Tap a placed piece to take it back; the floor is done when everything fits.</li></ol><h4>Higher up</h4><ul><li>From a 6×6 board to 8×8, from 3 pieces to 6</li><li>From floor 30: mirrored pieces you flip with a long press</li><li>Bigger pieces, tighter gaps</li></ul></div></article><article class="game" id="memory"><div class="art"><svg viewBox="0 0 76 76" aria-hidden="true"><rect x="4" y="8" width="30" height="40" rx="8" fill="#2B5E8E"/><circle cx="19" cy="28" r="6" fill="none" stroke="#fff" stroke-opacity=".6" stroke-width="2.5"/><rect x="40" y="8" width="30" height="40" rx="8" fill="#fff" stroke="#1F2A24" stroke-width="2.5"/><path d="M63 21C53 21 47 27 47 37c10 0 16-6 16-16z" fill="#7FB77E"/><rect x="22" y="34" width="30" height="40" rx="8" fill="#DCEBD6" stroke="#2E7D5B" stroke-width="2.5"/><path d="M45 47C35 47 29 53 29 63c10 0 16-6 16-16z" fill="#7FB77E"/></svg></div><div class="body"><div class="game-head"><h3>Memory</h3><span class="unlock">From floor 1</span></div><p class="goal">Flip the cards and find the matches.</p><h4>How to play</h4><ol><li>Turn two cards: a match stays open, otherwise they close again shortly.</li><li>Remember where each card is and find every pair.</li></ol><h4>Higher up</h4><ul><li>From 12 cards to 24</li><li>From floor 30: triples, find three of the same picture</li><li>Wrong cards close faster</li></ul></div></article><article class="game" id="flow"><div class="art"><svg viewBox="0 0 76 76" aria-hidden="true"><path d="M12 12h26v26h26" stroke="#E0565B" stroke-width="8" fill="none" stroke-linecap="round" stroke-linejoin="round"/><path d="M12 38v26h52" stroke="#6FA8DC" stroke-width="8" fill="none" stroke-linecap="round" stroke-linejoin="round"/><circle cx="12" cy="12" r="9" fill="#E0565B"/><circle cx="64" cy="38" r="9" fill="#E0565B"/><circle cx="12" cy="38" r="9" fill="#6FA8DC"/><circle cx="64" cy="64" r="9" fill="#6FA8DC"/></svg></div><div class="body"><div class="game-head"><h3>Flow</h3><span class="unlock">From floor 11</span></div><p class="goal">Connect matching ends and fill the board.</p><h4>How to play</h4><ol><li>Draw a line from a coloured dot to its matching dot.</li><li>Lines can&#x27;t cross and every square must be filled; an unfinished line vanishes when you lift your finger.</li></ol><h4>Higher up</h4><ul><li>From a 5×5 board to 7×7</li><li>From 3 colours to 6</li><li>Blocked squares you have to route around</li></ul></div></article><article class="game" id="pipes"><div class="art"><svg viewBox="0 0 76 76" aria-hidden="true"><rect x="2" y="2" width="72" height="72" rx="14" fill="#E3EEF9"/><path d="M8 38h22a8 8 0 0 0 8-8V8" stroke="#6FA8DC" stroke-width="9" fill="none" stroke-linecap="round"/><path d="M38 68V50a8 8 0 0 1 8-8h22" stroke="#C9D2CC" stroke-width="9" fill="none" stroke-linecap="round"/><circle cx="8" cy="38" r="7" fill="#2B5E8E"/><circle cx="68" cy="42" r="7" fill="#2E7D5B"/></svg></div><div class="body"><div class="game-head"><h3>Pipes</h3><span class="unlock">From floor 21</span></div><p class="goal">Turn the pipes and get the water flowing.</p><h4>How to play</h4><ol><li>Tap a pipe to turn it 90 degrees.</li><li>Lead the water from the source to the flag without a gap; flowing pipes fill up.</li></ol><h4>Higher up</h4><ul><li>From floor 40: every pipe must be connected</li><li>More branches, more tangled pipes</li><li>A 6×6 board at the crystal summit</li></ul></div></article><article class="game" id="colorSort"><div class="art"><svg viewBox="0 0 76 76" aria-hidden="true"><g stroke="#8A958E" stroke-width="2.5" fill="none"><path d="M8 6v56a8 8 0 0 0 16 0V6"/><path d="M30 6v56a8 8 0 0 0 16 0V6"/><path d="M52 6v56a8 8 0 0 0 16 0V6"/></g><path d="M10 42h12v20a6 6 0 0 1-12 0z" fill="#F08A3C"/><rect x="10" y="26" width="12" height="16" fill="#A58AE0"/><path d="M32 30h12v32a6 6 0 0 1-12 0z" fill="#A58AE0"/><path d="M54 46h12v16a6 6 0 0 1-12 0z" fill="#F08A3C"/></svg></div><div class="body"><div class="game-head"><h3>Colour sort</h3><span class="unlock">From floor 31</span></div><p class="goal">Sort the colours until every tube holds one.</p><h4>How to play</h4><ol><li>Tap a tube, then another: the top colour pours over.</li><li>It only goes onto the same colour or into an empty tube; stuck? Undo.</li></ol><h4>Higher up</h4><ul><li>From 4 colours to 8</li><li>More mixed starts, longer solutions</li><li>Always two empty tubes: the planning is yours</li></ul></div></article><article class="game" id="lights"><div class="art"><svg viewBox="0 0 76 76" aria-hidden="true"><g fill="#F2B531"><rect x="2" y="2" width="22" height="22" rx="6"/><rect x="27" y="2" width="22" height="22" rx="6"/><rect x="52" y="27" width="22" height="22" rx="6"/><rect x="2" y="27" width="22" height="22" rx="6"/><rect x="27" y="52" width="22" height="22" rx="6"/></g><g fill="#F4F6F1" stroke="#E3E9E0" stroke-width="2"><rect x="52" y="2" width="22" height="22" rx="6"/><rect x="27" y="27" width="22" height="22" rx="6"/><rect x="2" y="52" width="22" height="22" rx="6"/><rect x="52" y="52" width="22" height="22" rx="6"/></g><g fill="#5A3E00"><circle cx="13" cy="13" r="4"/><circle cx="38" cy="13" r="4"/><circle cx="63" cy="38" r="4"/><circle cx="13" cy="38" r="4"/><circle cx="38" cy="63" r="4"/></g></svg></div><div class="body"><div class="game-head"><h3>Lights</h3><span class="unlock">From floor 41</span></div><p class="goal">Light up every square.</p><h4>How to play</h4><ol><li>Tap a square: it and its up, down, left and right neighbours (a + shape) flip. Dark ones light up, lit ones go dark.</li><li>Hold your finger down to see which squares will flip; diagonals are not affected.</li></ol><h4>Higher up</h4><ul><li>From a 3×3 board to 5×5</li><li>From 3 to 10 taps to solve</li><li>Order matters: think first, then tap</li></ul></div></article><article class="game" id="arrows"><div class="art"><svg viewBox="0 0 76 76" aria-hidden="true"><g fill="none" stroke-width="7" stroke-linecap="round" stroke-linejoin="round"><path d="M14 60V36h22" stroke="#F08A3C"/><path d="M50 62V22" stroke="#6FA8DC"/><path d="M20 16h30" stroke="#A58AE0"/></g><path d="M36 28l10 8-10 8z" fill="#F08A3C"/><path d="M42 24l8-12 8 12z" fill="#6FA8DC"/><path d="M50 8l12 8-12 8z" fill="#A58AE0"/></svg></div><div class="body"><div class="game-head"><h3>Arrows</h3><span class="unlock">From floor 51</span></div><p class="goal">Clear the arrows in the right order.</p><h4>How to play</h4><ol><li>Tap an arrow: it slides the way its head points, its body follows, and it leaves the board if the way is clear.</li><li>If another arrow is in the way, it bumps back and costs 3 seconds; clear the ones in front first.</li></ol><h4>Higher up</h4><ul><li>From a 7×7 board to 11×11, up to 85% full</li><li>Short arrows next to winding snakes up to 12 cells long</li><li>Longer &quot;this one first&quot; chains</li></ul></div></article></div>
   <div class="shots"><figure><div class="phone sm"><img src="../assets/shots/play-path.webp" width="603" height="1311" loading="lazy" alt="Path draw"></div><figcaption>Path draw</figcaption></figure><figure><div class="phone sm"><img src="../assets/shots/play-color.webp" width="603" height="1311" loading="lazy" alt="Colour match"></div><figcaption>Colour match</figcaption></figure><figure><div class="phone sm"><img src="../assets/shots/play-blocks.webp" width="603" height="1311" loading="lazy" alt="Block fit"></div><figcaption>Block fit</figcaption></figure><figure><div class="phone sm"><img src="../assets/shots/play-arrows.webp" width="603" height="1311" loading="lazy" alt="Arrows"></div><figcaption>Arrows</figcaption></figure></div>
 </div></section>
 <section id="worlds"><div class="wrap">

diff --git a/build.py b/build.py
@@ -119,7 +119,7 @@ S = {
      ["3×3 tahtadan 5×5'e", "Çözüm için gereken dokunuş 3'ten 10'a", "Sıra önemli: önce düşün, sonra dokun"]),
     ("arrows", "Oklar", "Kat 51'den", "Okları sırasıyla tahtadan çıkar.",
      ["Bir oka dokun: ucunun gösterdiği yöne kayar, gövdesi ucunu izler ve yolu açıksa tahtadan çıkar.", "Önünde başka ok varsa çarpıp geri döner ve 3 saniye götürür; önce öndekileri çıkar."],
-     ["6×6 tahtadan 9×9'a, 7 oktan 19 oka", "Düz oklardan kıvrımlı, yılan gibi oklara", "Daha uzun \"önce bu çıkmalı\" zincirleri"])],
+     ["7×7 tahtadan 11×11'e, karelerin %85'ine kadar dolu", "Kısa oklarla 12 kareye varan kıvrımlı yılan oklar", "Daha uzun \"önce bu çıkmalı\" zincirleri"])],
   "shots": [("play-path", "Yol çizme"), ("play-color", "Renk birleştirme"), ("play-blocks", "Blok yerleştirme"), ("play-arrows", "Oklar")],
   "worlds_eyebrow": "Dünyalar", "worlds_h2": "Dört dünya, sonu olmayan bir kule.",
   "worlds_p": "Ormandan başla, bulutların arasından uzaya çık, kristal zirveye ulaş. Her dünyada kurallar biraz daha zorlaşır.",
@@ -201,7 +201,7 @@ S = {
      ["From a 3×3 board to 5×5", "From 3 to 10 taps to solve", "Order matters: think first, then tap"]),
     ("arrows", "Arrows", "From floor 51", "Clear the arrows in the right order.",
      ["Tap an arrow: it slides the way its head points, its body follows, and it leaves the board if the way is clear.", "If another arrow is in the way, it bumps back and costs 3 seconds; clear the ones in front first."],
-     ["From a 6×6 board to 9×9, from 7 arrows to 19", "From straight arrows to bent, snake-like ones", "Longer \"this one first\" chains"])],
+     ["From a 7×7 board to 11×11, up to 85% full", "Short arrows next to winding snakes up to 12 cells long", "Longer \"this one first\" chains"])],
   "shots": [("play-path", "Path draw"), ("play-color", "Colour match"), ("play-blocks", "Block fit"), ("play-arrows", "Arrows")],
   "worlds_eyebrow": "Worlds", "worlds_h2": "Four worlds, a tower without an end.",
   "worlds_p": "Start in the forest, climb through the clouds into space and reach the crystal summit. Each world bends the rules a little more.",
